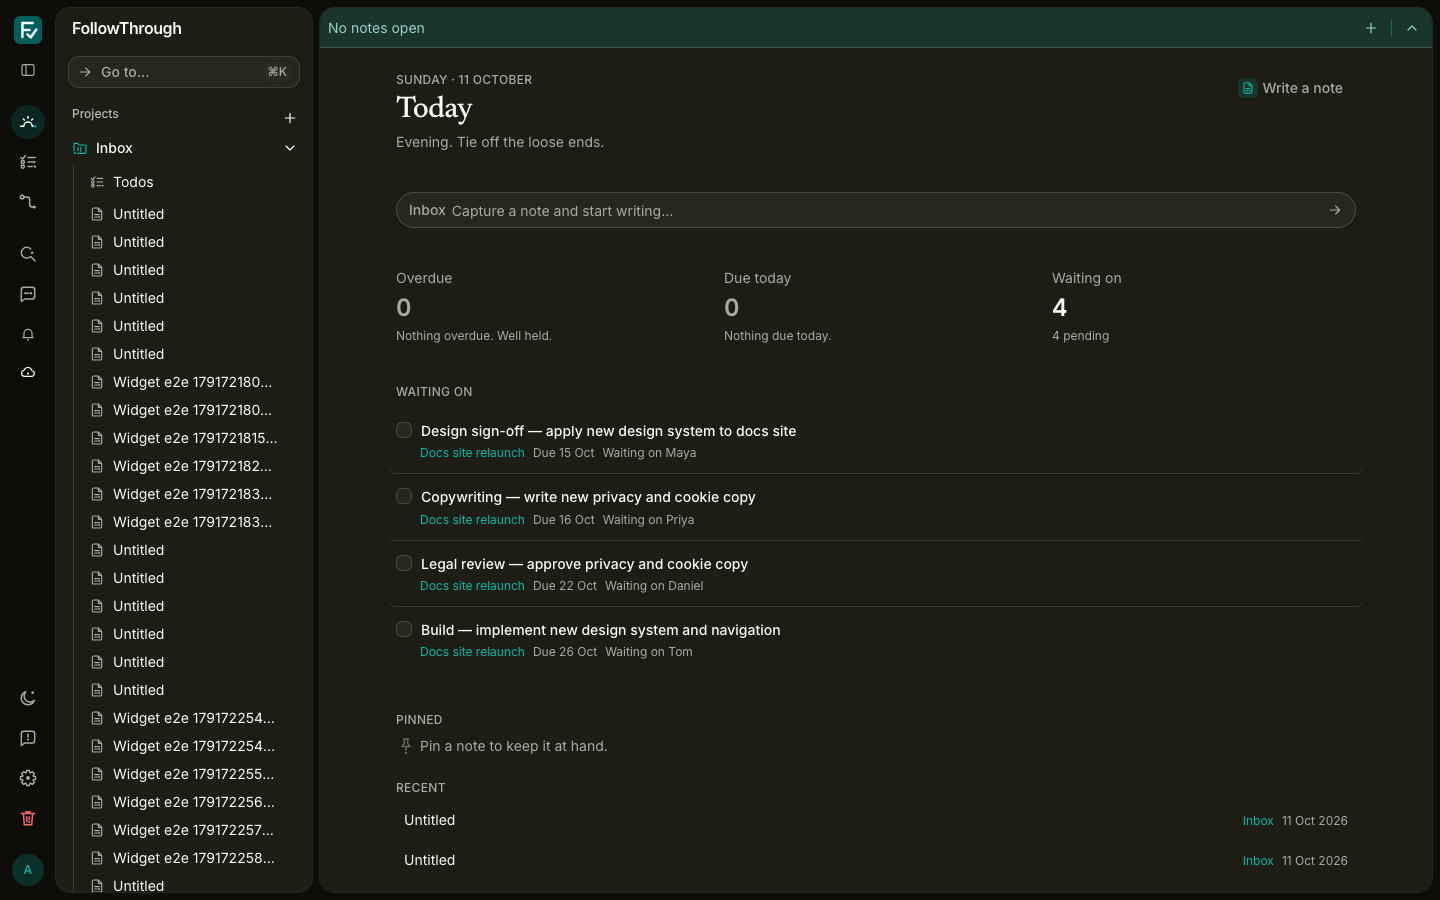
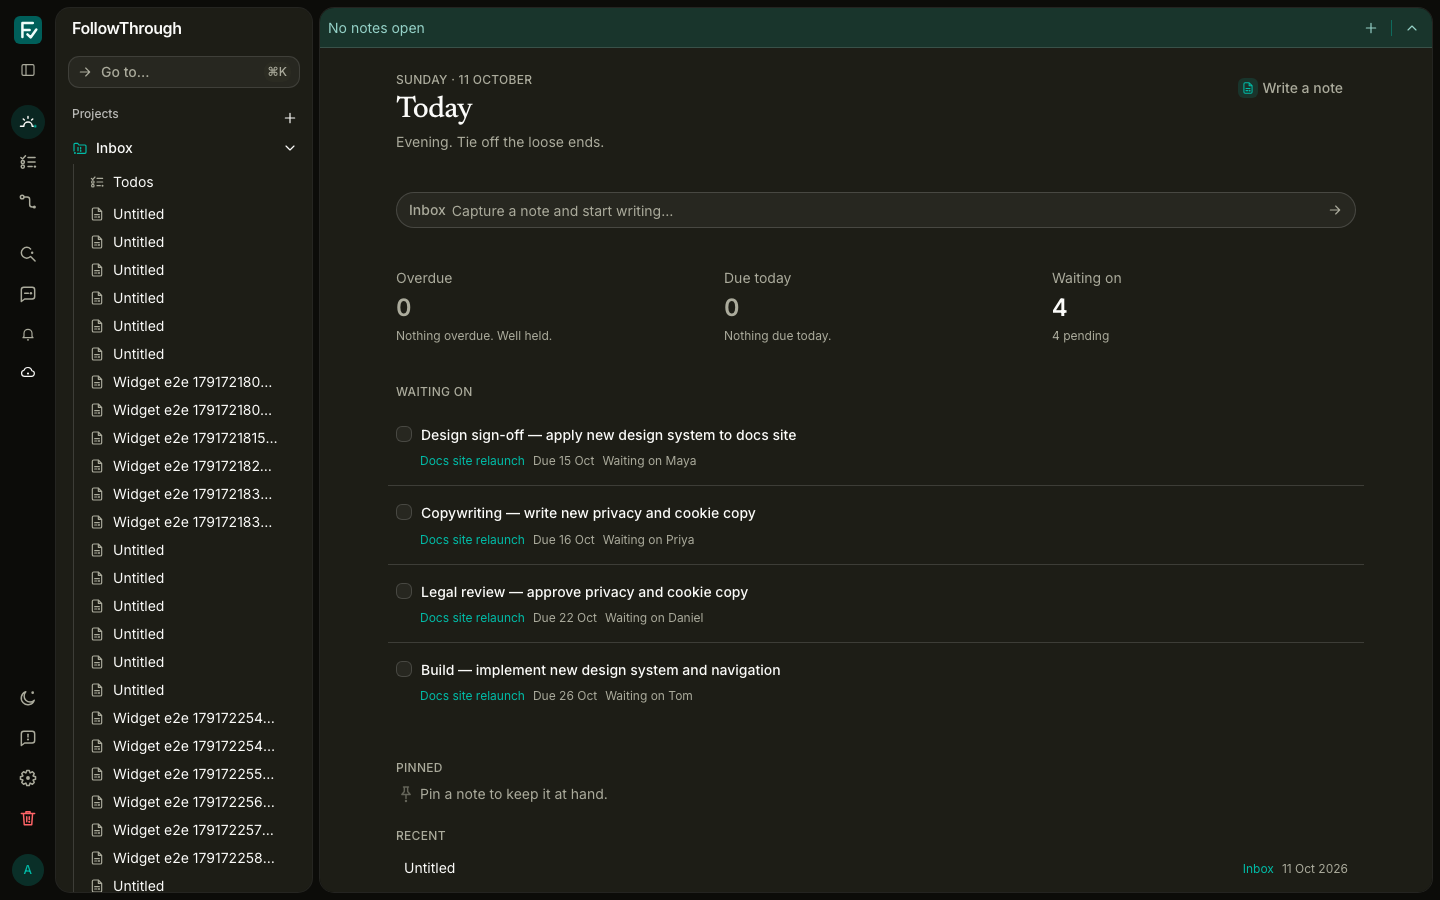
fix(todos): straighten row dividers and set titles above column rules

Changed region(s): [[0.2812, 0.4667, 0.5625, 0.9956], [0.875, 0.9022, 0.9375, 0.9644]]

diff --git a/src/lib/components/todos/kanban-board.svelte b/src/lib/components/todos/kanban-board.svelte
@@ -170,16 +170,20 @@
 <!-- Columns are zones separated by hairlines, not filled trays: structure appears
      during a drag (the lifted row, the drop line, the zone outline), not at rest. -->
 <div
-	class="flex min-h-0 flex-1 snap-x snap-mandatory divide-x divide-border overflow-x-auto pb-3 2xl:grid 2xl:grid-cols-4 2xl:grid-rows-1 2xl:overflow-visible 2xl:pb-0"
+	class="flex min-h-0 flex-1 snap-x snap-mandatory overflow-x-auto pb-3 2xl:grid 2xl:grid-cols-4 2xl:grid-rows-1 2xl:overflow-visible 2xl:pb-0"
 >
 	{#each columns as status (status)}
 		{@const items = board[status]}
 		{@const isExpanded = expanded.has(status)}
 		{@const visible = visibleItems(items, isExpanded)}
 		<section
-			class="flex min-h-40 w-80 shrink-0 snap-start flex-col gap-bind overflow-hidden px-row first:pl-0 last:pr-0 2xl:w-auto 2xl:min-w-0"
+			class="group/col flex min-h-40 w-80 shrink-0 snap-start flex-col gap-item overflow-hidden 2xl:w-auto 2xl:min-w-0"
 		>
-			<h3 class="eyebrow flex items-center gap-1.5 px-1.5 pt-1 pb-2">
+			<!-- The title sits above its column's rule: the rule separates content,
+			     not labels, so the titles read as one row heading every column. -->
+			<h3
+				class="eyebrow flex items-center gap-1.5 px-row pt-1 group-first/col:pl-0 group-last/col:pr-0"
+			>
 				{#if status === 'done'}
 					<Icon.Check class="size-3 text-success" />
 				{:else}
@@ -193,108 +197,112 @@
 					]}>{items.length}</span
 				>
 			</h3>
-			<div class="relative flex min-h-0 flex-1 flex-col">
-				{#if items.length === 0 && addingTo !== status}
-					<p
-						class="pointer-events-none absolute inset-0 flex items-center justify-center px-4 text-center text-xs text-muted-foreground/70"
-					>
-						{todoStatusEmptyCopy[status]}
-					</p>
-				{/if}
-				{#if addingTo === status}
-					<Input
-						id={status === 'open' ? 'quick-todo-input' : undefined}
-						autofocus
-						{@attach (node: HTMLElement) => node.focus()}
-						placeholder="Todo title…"
-						bind:value={newTitle}
-						class="mb-2"
-						onkeydown={(e) => {
-							if (e.key === 'Escape') addingTo = null;
-							if (e.key === 'Enter') void addTodo(status);
-						}}
-					/>
-				{/if}
-				<!-- A long column scrolls inside its zone; the header and the add row
+			<div
+				class="flex min-h-0 flex-1 flex-col border-l border-border px-row group-first/col:border-l-0 group-first/col:pl-0 group-last/col:pr-0"
+			>
+				<div class="relative flex min-h-0 flex-1 flex-col">
+					{#if items.length === 0 && addingTo !== status}
+						<p
+							class="pointer-events-none absolute inset-0 flex items-center justify-center px-4 text-center text-xs text-muted-foreground/70"
+						>
+							{todoStatusEmptyCopy[status]}
+						</p>
+					{/if}
+					{#if addingTo === status}
+						<Input
+							id={status === 'open' ? 'quick-todo-input' : undefined}
+							autofocus
+							{@attach (node: HTMLElement) => node.focus()}
+							placeholder="Todo title…"
+							bind:value={newTitle}
+							class="mb-2"
+							onkeydown={(e) => {
+								if (e.key === 'Escape') addingTo = null;
+								if (e.key === 'Enter') void addTodo(status);
+							}}
+						/>
+					{/if}
+					<!-- A long column scrolls inside its zone; the header and the add row
 				     stay put, which is what lets the board fill the page height. The p-0.5
 				     keeps the dnd drop outline from being clipped by the overflow
 				     scrollport. Rows touch; the hairlines between them separate. -->
-				<div
-					data-todo-status={status}
-					class="flex min-h-20 flex-1 flex-col divide-y divide-border overflow-y-auto rounded-md p-0.5"
-					use:dragHandleZone={{
-						items: visible,
-						flipDurationMs: 150,
-						/* The placeholder is a 2px drop line, so morphing the clone to its
+					<div
+						data-todo-status={status}
+						class="flex min-h-20 flex-1 flex-col divide-y divide-border overflow-y-auto rounded-md p-0.5"
+						use:dragHandleZone={{
+							items: visible,
+							flipDurationMs: 150,
+							/* The placeholder is a 2px drop line, so morphing the clone to its
 						   size would crush the held row. The clone keeps the row's size. */
-						morphDisabled: true,
-						type: 'todo',
-						/* The default drop-target outline is library yellow. */
-						dropTargetStyle: { outline: '2px solid var(--color-brand)' },
-						/* The floating clone is a DOM copy made before Svelte re-renders,
+							morphDisabled: true,
+							type: 'todo',
+							/* The default drop-target outline is library yellow. */
+							dropTargetStyle: { outline: '2px solid var(--color-brand)' },
+							/* The floating clone is a DOM copy made before Svelte re-renders,
 						   so it is marked lifted directly; layout.css styles both. */
-						transformDraggedElement: (element) => {
-							element?.querySelector('[data-slot="todo-row"]')?.setAttribute('data-lifted', '');
-						}
-					}}
-					onconsider={(event) => handleConsider(status, event)}
-					onfinalize={(event) => handleFinalize(status, event)}
-				>
-					{#each visible as item (item.id)}
-						<!-- The pointer-drag placeholder is where the row will land: a
+							transformDraggedElement: (element) => {
+								element?.querySelector('[data-slot="todo-row"]')?.setAttribute('data-lifted', '');
+							}
+						}}
+						onconsider={(event) => handleConsider(status, event)}
+						onfinalize={(event) => handleFinalize(status, event)}
+					>
+						{#each visible as item (item.id)}
+							<!-- The pointer-drag placeholder is where the row will land: a
 						     brand line, not a second copy of the row. Wrapped so the
 						     zone always sees one element per item. -->
-						<div>
-							{#if isShadowItem(item)}
-								<!-- The library hides its placeholder; the line opts back in. -->
-								<div class="visible py-1" aria-hidden="true">
-									<div class="h-0.5 rounded-full bg-brand"></div>
-								</div>
+							<div>
+								{#if isShadowItem(item)}
+									<!-- The library hides its placeholder; the line opts back in. -->
+									<div class="visible py-1" aria-hidden="true">
+										<div class="h-0.5 rounded-full bg-brand"></div>
+									</div>
+								{:else}
+									<TodoRow
+										view={item.view}
+										draggable
+										lifted={item.id === draggingId}
+										projectName={projectNames?.get(item.view.todo.projectId)}
+										{onopen}
+										onstatus={onmove}
+									/>
+								{/if}
+							</div>
+						{/each}
+					</div>
+					{#if items.length > VISIBLE_LIMIT}
+						<Button
+							variant="ghost"
+							size="sm"
+							class="w-full justify-start text-xs text-muted-foreground hover:bg-muted hover:text-foreground"
+							onclick={() => toggleExpanded(status)}
+						>
+							{#if isExpanded}
+								Show less
 							{:else}
-								<TodoRow
-									view={item.view}
-									draggable
-									lifted={item.id === draggingId}
-									projectName={projectNames?.get(item.view.todo.projectId)}
-									{onopen}
-									onstatus={onmove}
-								/>
+								Show <span class="font-semibold text-foreground tabular-nums"
+									>{items.length - VISIBLE_LIMIT}</span
+								> more
 							{/if}
-						</div>
-					{/each}
+						</Button>
+					{/if}
 				</div>
-				{#if items.length > VISIBLE_LIMIT}
+				{#if status !== 'done'}
 					<Button
 						variant="ghost"
 						size="sm"
 						class="w-full justify-start text-xs text-muted-foreground hover:bg-muted hover:text-foreground"
-						onclick={() => toggleExpanded(status)}
+						aria-label="Add todo to {todoStatusLabels[status]}"
+						onclick={() => {
+							addingTo = status;
+							newTitle = '';
+						}}
 					>
-						{#if isExpanded}
-							Show less
-						{:else}
-							Show <span class="font-semibold text-foreground tabular-nums"
-								>{items.length - VISIBLE_LIMIT}</span
-							> more
-						{/if}
+						<Icon.Plus class="size-3.5" />
+						Add
 					</Button>
 				{/if}
 			</div>
-			{#if status !== 'done'}
-				<Button
-					variant="ghost"
-					size="sm"
-					class="w-full justify-start text-xs text-muted-foreground hover:bg-muted hover:text-foreground"
-					aria-label="Add todo to {todoStatusLabels[status]}"
-					onclick={() => {
-						addingTo = status;
-						newTitle = '';
-					}}
-				>
-					<Icon.Plus class="size-3.5" />
-					Add
-				</Button>
-			{/if}
 		</section>
 	{/each}
 </div>

diff --git a/src/lib/components/todos/todo-row.svelte b/src/lib/components/todos/todo-row.svelte
@@ -73,7 +73,8 @@
 </script>
 
 <!-- A divided row, never a card: the list's hairlines separate rows, and the row
-     only paints while it is hovered or held. Hover and lift live in layout.css
+     only paints while it is hovered or held. It stays square: `divide-y` borders a
+     rounded row along its corners, which bends each hairline into a card edge. Hover and lift live in layout.css
      under [data-slot='todo-row'] so the drag clone, which is a DOM copy outside
      Svelte, picks up the same lifted recipe. -->
 <!-- svelte-ignore a11y_click_events_have_key_events, a11y_no_static_element_interactions -->
@@ -81,7 +82,7 @@
 	data-slot="todo-row"
 	data-lifted={lifted || undefined}
 	class={[
-		'flex items-start gap-item rounded-md px-2 py-row transition-[background-color,opacity,scale] duration-200',
+		'flex items-start gap-item px-2 py-4 transition-[background-color,opacity,scale] duration-200',
 		completing && 'scale-95 opacity-50'
 	]}
 	onclick={openBody}
@@ -111,7 +112,7 @@
 		aria-label={done ? 'Reopen todo' : 'Complete todo'}
 		onCheckedChange={(checked) => complete(checked === true)}
 	/>
-	<div class="flex min-w-0 flex-1 flex-col gap-bind">
+	<div class="flex min-w-0 flex-1 flex-col gap-item">
 		{#if onopen}
 			<!-- Full wrap, no clamp: a clipped title reads as lost text. Focus shows as
 			     an underline, not a ring: Chrome applies :focus-visible to clicked

diff --git a/docs/design/agent-digest.md b/docs/design/agent-digest.md
@@ -45,7 +45,7 @@
 - form labels: shadcn `Label` (and `Field.FieldLabel`) = xs/500/muted-fg — label recedes, value leads. `Field.Title` stays sm/500 fg over `Field.Description` xs/muted (settings rows). override per-site if a dialog label needs prominence
 - ladder: eyebrow/caption (xs) → body (sm) → section-title (base) → page-title (3xl) → note-title (clamp)
 - spacing ladder (layout.css `--spacing-*`): bind 4 / item 8 / row 12 / group 24 / section 40. vertical stacks (space-y, gap on flex-col/grid) use only these — not machine-checked; a numeric stack gap is a review finding. icon↔label gaps stay numeric
-- todos are divided rows (todo-row.svelte), never cards; one muted meta line; project = text-brand on rows (badge wash is for chips); drag = opaque brand/20 wash + 2px brand drop line, no shadow; board columns are hairline-separated zones
+- todos are divided rows (todo-row.svelte), never cards; one muted meta line; project = text-brand on rows (badge wash is for chips); drag = opaque brand/20 wash + 2px brand drop line, no shadow; board columns are hairline-separated zones with titles above the rules; rows are square (rounding bends divide-y hairlines), 8px title→meta, py-4
 - project-overview resource rows sit at base/500 — one step above the sm documents list, because a space outranks a document
 - exceptions: right-panel + drawio chrome-bar titles, sidebar brand = chrome, not content scale
 - chrome legibility floor: primary nav never below sm — workspace tab strip (h-10, sm labels), sidebar wordmark (base/semibold), empty-strip placeholder. xs=eyebrow/provenance only

diff --git a/docs/design/design-system.md b/docs/design/design-system.md
@@ -346,7 +346,10 @@ while the region is empty; the empty state and its one action are the whole surf
   right panel is the complete master-detail editor. A todo is a divided row on Today and the
   board, never a card: the title leads, and one muted caption line carries whatever metadata is
   actually set (project, due date — "Overdue" in words when it is — priority, who it waits on,
-  provenance). Board columns are zones separated by hairlines, not filled trays. Row controls
+  provenance), 8px under the title, with 16px of padding to each hairline. A row is a square band
+  between hairlines: rounding a divided row bends its dividers into card edges, so only the
+  lifted row rounds. Board columns are zones separated by hairlines, not filled trays, and each
+  column's title sits above its rule — the rule separates content, not labels. Row controls
   (drag handle, move menu) reveal on hover or focus on pointer layouts and stay visible on touch.
   No second board-density toggle. Editable popovers never resize rows;
   provenance stays separate from the user-selected source. Controls use the flat shadcn Select,
